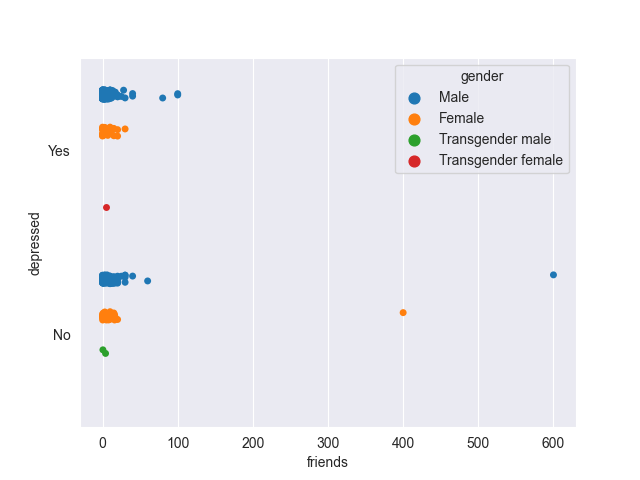
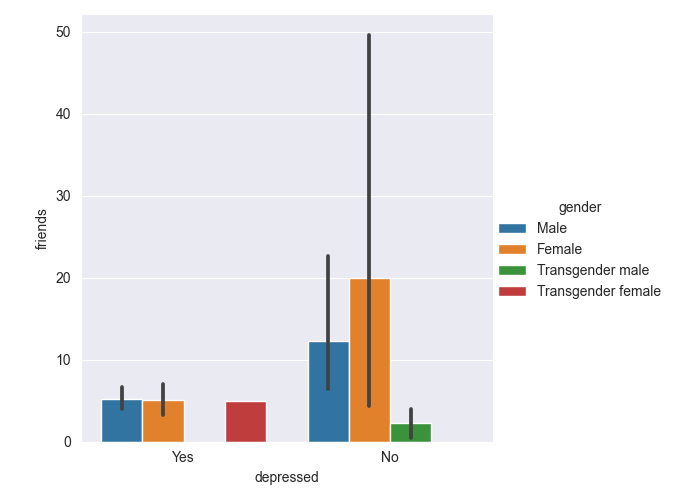
work on sunday

diff --git a/index.html b/index.html
@@ -66,6 +66,18 @@
       <br>
       <img src="visualizations/improvement_male.png" width=40%>
     </p>
+    <h2>Sentiment Analysis</h2>
+    <p> The Sentiment Analaysis data collected comes from the <a href="https://github.com/google-research-datasets/coarse-discourse">Google Coarse-Discourse</a> github page.
+      Using the raw data, we collected the text and subreddit headings from the JSON file and created plain text files with this information.
+      Next we used the nltk VADER package to run sentiment analysis on all of the collected subreddit threads in an attempt to determine if overall, reddit
+      is a supportive environment.
+    <br>
+    <img src="visualizations/top255.png" width=40%>
+    <br>
+    This visualization shows data from the 255 subreddit threads which had the most textual data. This data demonstrates
+    reddit much higher levels of positive sentiment than negative. This may be surprising given 
+    </p>
+
     <h2>Conclusion</h2>
   </body>
 </html>

diff --git a/demographics_data_viz.py b/demographics_data_viz.py
@@ -4,20 +4,18 @@ import seaborn as sns
 
 
 df = pd.read_csv('foreveralone.csv')
-df.replace(to_replace="No", value=0)
-df.replace(to_replace="Yes", value=1)
-
-print(df)
 
 sns.set_style('darkgrid')
 
+#GENDER
 sns.countplot(x ='gender', data = df)
 plt.savefig('gender.png')
 
-plt.figure()
-sns.stripplot(x ='gender', y ='friends', data = df, jitter = True, dodge = True)
-plt.savefig('friends.png')
-
-plt.figure()
-sns.stripplot(x ='friends', y ='depressed', data = df, jitter = True, dodge = True, hue='gender')
+#FRIENDS & DEPRESSED BY GENDER
+sns.catplot(data=df, kind="bar", x="depressed", y="friends", hue="gender")
 plt.savefig('depressed.png')
+
+#FRIENDS & SOCIAL FEAR BY GENDER
+plt.figure()
+sns.catplot(data=df, kind="bar", x="social_fear", y="friends", hue="gender")
+plt.savefig('social_fear.png')
